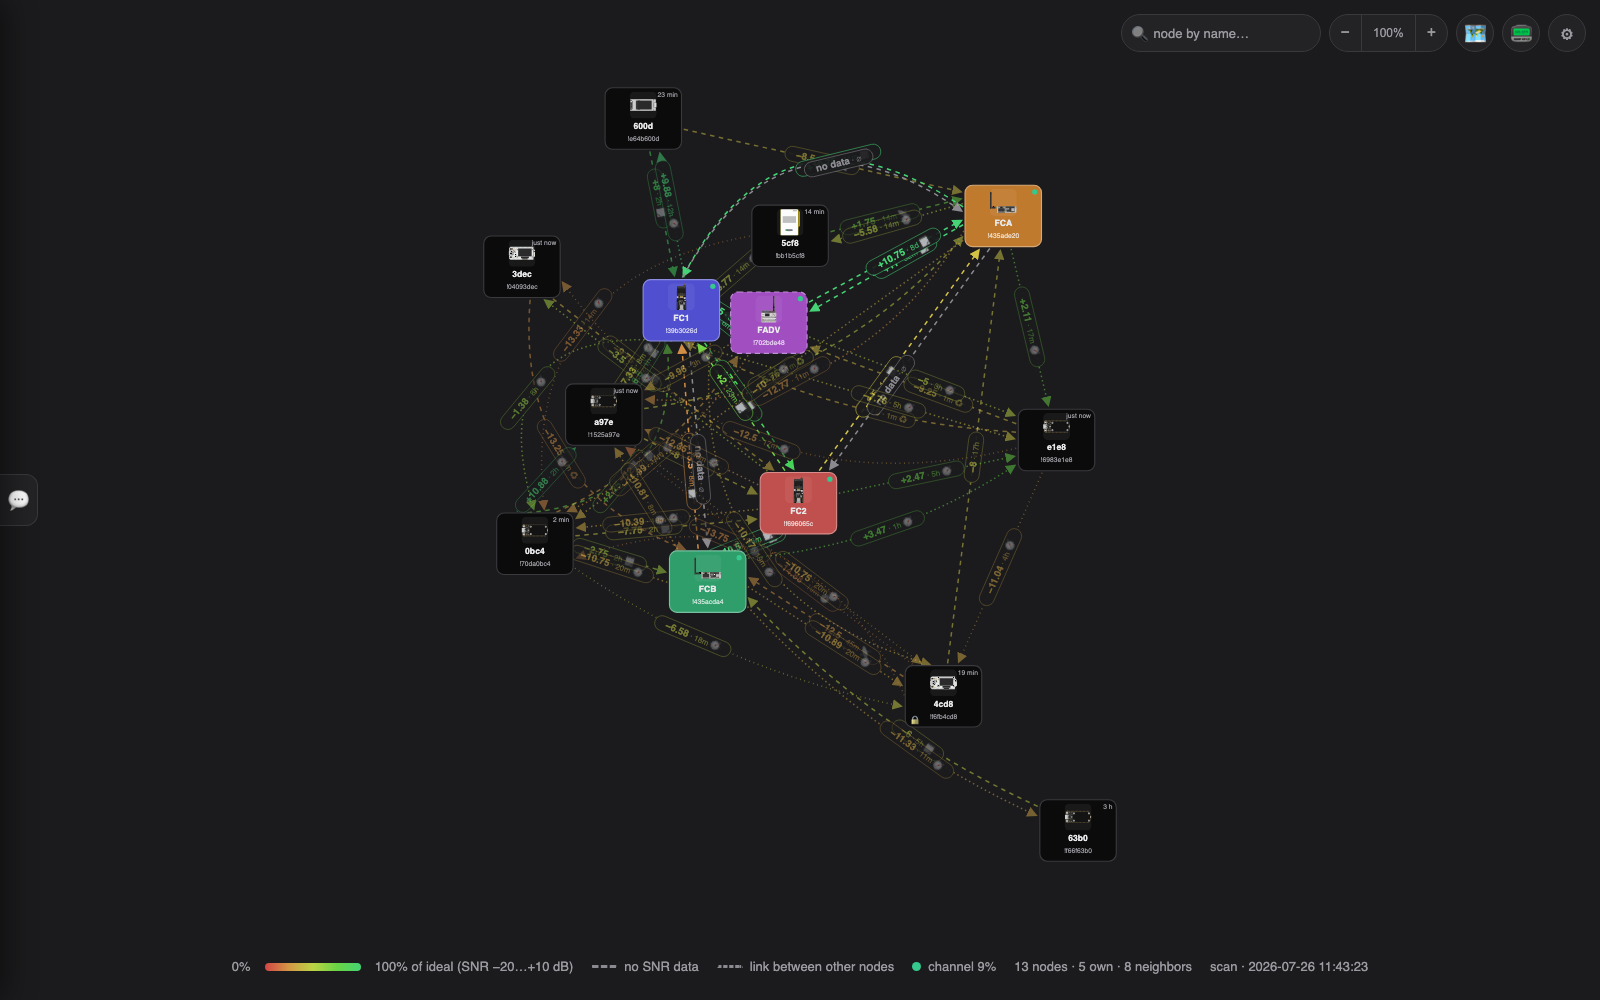
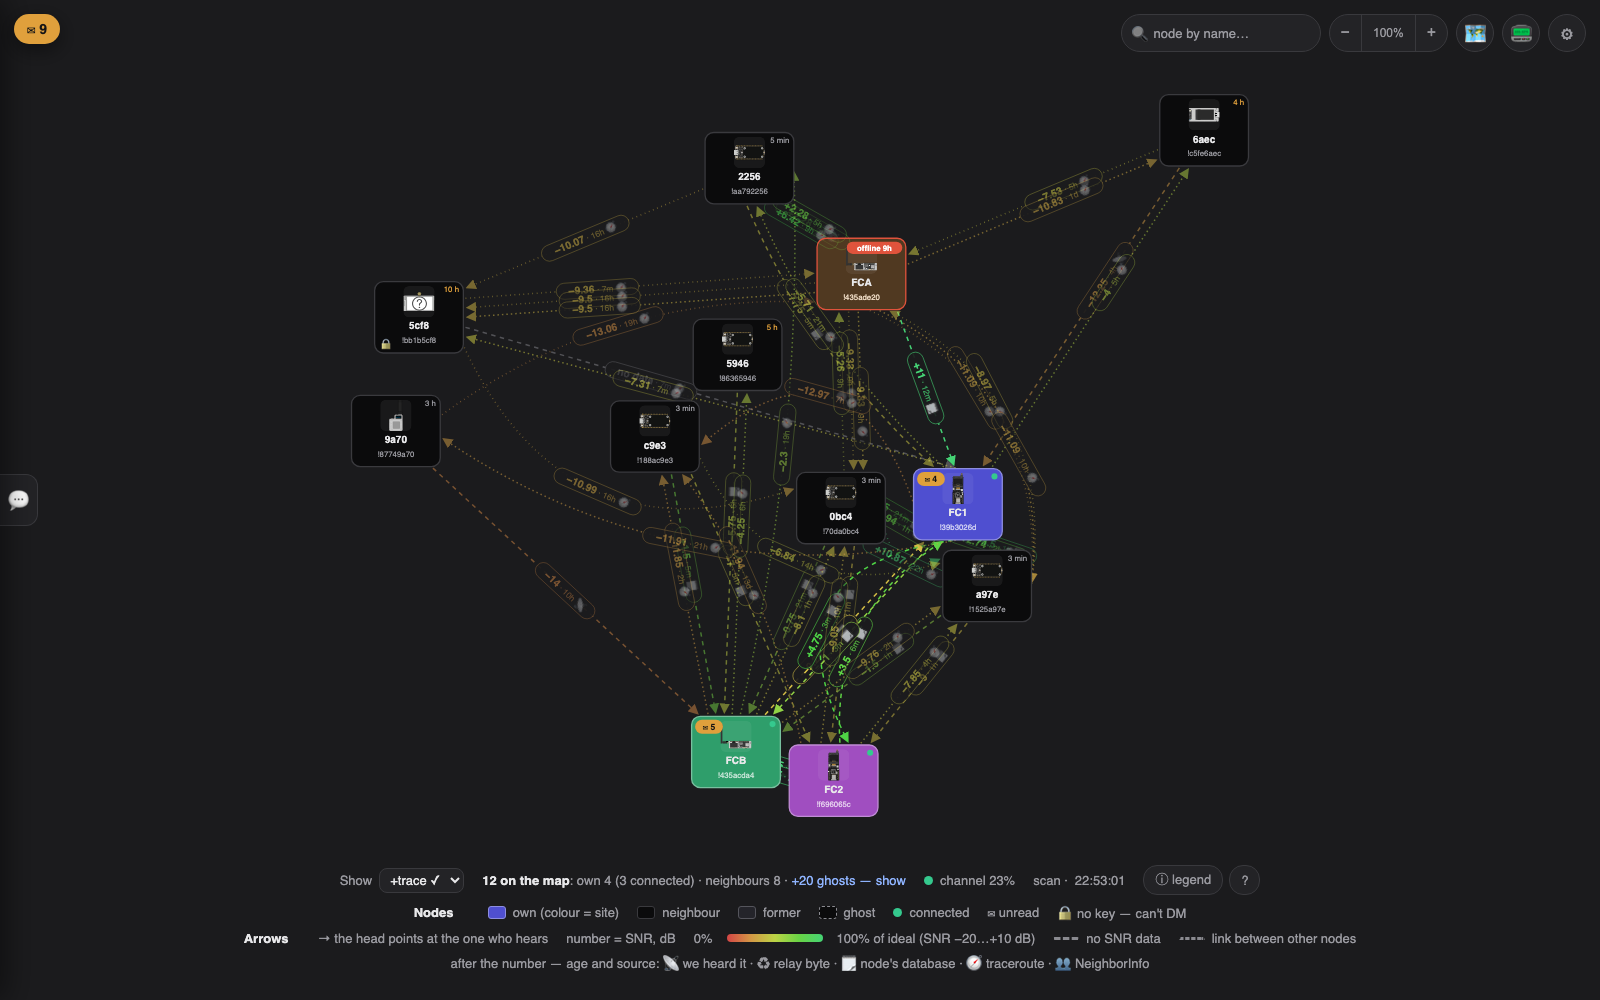
Карта не залезает под верхний ряд, легенда ровная; новые кадры в README
- Облако нод опускается под верхний ряд кнопок (он лежит поверх карты):
  с крупными карточками верхняя уходила под поиск.
- Строки легенды центрируются одинаково, перенос «Стрелок» больше не
  уезжает влево.
- Статус: «off» у пропавшей ноды → «нет связи»; «1 обсуждений» →
  «обсуждений: 1».
- Кадры карты, поиска и статуса пересняты (анон-режим, IP своих нод
  скрыты): на них новая легенда, крупные карточки, пропавшая своя нода и
  раздел «Свои ноды» на статусе.

diff --git a/app.js b/app.js
@@ -828,11 +828,14 @@
       const xs = P.map(p => p[0]), ys = P.map(p => p[1]);
       const spanX = (Math.max(...xs) - Math.min(...xs)) || 1e-6;
       const spanY = (Math.max(...ys) - Math.min(...ys)) || 1e-6;
-      const scale = Math.min((W - 180) / spanX, (H - 200) / spanY) * mapZoom;
+      // верхний ряд кнопок лежит поверх карты (до 52 px) — облако опускаем под
+      // него; при зуме карта скроллится, и отступ не нужен
+      const topU = mapZoom > 1.001 ? 0 : 56 / pxPerU;
+      const scale = Math.min((W - 180) / spanX, (H - 200 - topU) / spanY) * mapZoom;
       const cx0 = (Math.max(...xs) + Math.min(...xs)) / 2;
       const cy0 = (Math.max(...ys) + Math.min(...ys)) / 2;
       ids.forEach((id, i) => {
-        px[id] = [CW / 2 + (P[i][0] - cx0) * scale, CH / 2 + (P[i][1] - cy0) * scale];
+        px[id] = [CW / 2 + (P[i][0] - cx0) * scale, CH / 2 + topU / 2 + (P[i][1] - cy0) * scale];
       });
       // Раздвижка перекрывшихся карточек (2D, симметрично). Со-локация своих
       // нод (одно железо → почти совпадающие точки в честной SNR-раскладке) плюс
@@ -841,7 +844,7 @@
       // мягко держим в границах — кластер у края расползается внутрь карты.
       const MINX = CARD.w * cardK + 12, MINY = CARD.h * cardK + 14;
       const clX = (v) => Math.max(CARD.w * cardK / 2 + 19, Math.min(CW - CARD.w * cardK / 2 - 19, v));
-      const clY = (v) => Math.max(CARD.h * cardK / 2 + 7, Math.min(CH - CARD.h * cardK / 2 - 7, v));
+      const clY = (v) => Math.max(CARD.h * cardK / 2 + 7 + topU, Math.min(CH - CARD.h * cardK / 2 - 7, v));
       // Пары дальше MINX×MINY не пересекаются, поэтому вместо O(n²) на итерацию
       // бакетим позиции по сетке ячейками MINX×MINY: узел сравниваем лишь с его и
       // 8 соседними ячейками (только там возможно перекрытие). При сотнях узлов

diff --git a/style.css b/style.css
@@ -59,10 +59,10 @@ body.geo-on #mapzoom { display: none; }
   padding-bottom: max(26px, env(safe-area-inset-bottom));
   font-size: 13px;
   color: var(--muted);
-  align-items: center;
+  align-items: stretch;
 }
 #legend .item { display: flex; align-items: center; gap: 7px; }
-#legend .lg-row { display: flex; flex-wrap: wrap; align-items: center; gap: 6px 18px; }
+#legend .lg-row { display: flex; flex-wrap: wrap; align-items: center; justify-content: center; gap: 6px 18px; }
 #legend .lg-key { display: none; }
 body.legend-open #legend .lg-key { display: flex; }
 #legend .lg-h { color: var(--text); font-weight: 600; min-width: 56px; }
@@ -76,7 +76,7 @@ body.legend-open #legend .lg-key { display: flex; }
   background: var(--zone-bg); color: var(--text); border: 1px solid var(--zone-stroke);
   border-radius: 8px; padding: 3px 6px; font: inherit; cursor: pointer;
 }
-#legend .lg-btns { margin-left: auto; display: flex; gap: 6px; }
+#legend .lg-btns { display: flex; gap: 6px; }
 #legend .lg-btns button {
   background: var(--zone-bg); color: var(--muted); border: 1px solid var(--zone-stroke);
   border-radius: 14px; padding: 4px 11px; font: inherit; cursor: pointer;

diff --git a/status.html b/status.html
@@ -166,7 +166,7 @@
         return `<div class="card nrow"><span class="dot ${dot}"></span>
           <span><span class="nm">${esc(n.name)}</span> <span class="meta">${esc(n.ip || "")}</span><br>
           <span class="meta">${parts.join(" · ") || "на связи"}</span></span>
-          <span class="age">${n.connected ? "" : n.mobile ? "кочует" : "off"}</span></div>`;
+          <span class="age">${n.connected ? "" : n.mobile ? "кочует" : "нет связи"}</span></div>`;
       }).join("") || '<div class="meta">флот не описан: добавь свои ноды в known/names конфига</div>';
 
       // данные

diff --git a/collector/hub.py b/collector/hub.py
@@ -3448,7 +3448,7 @@ def gh_watch_loop():
             for n in notes:
                 log("🐙 " + n.splitlines()[0])
                 tg_send(n)
-            beat("ghwatch", f"{len(entries)} обсуждений"
+            beat("ghwatch", f"обсуждений: {len(entries)}"
                             + (f" · новых {len(notes)}" if notes else ""))
         except Exception as e:
             beat("ghwatch", f"ошибка: {e.__class__.__name__}")

diff --git a/README.ru.md b/README.ru.md
@@ -6,7 +6,7 @@
 и насколько хорошо, у кого лежит непрочитанное сообщение. Всё обновляется
 само, пока страница открыта.
 
-![Карта связности: свои ноды окрашены по площадкам, соседи подтверждены трассировкой, на каждой стрелке — SNR, возраст замера и значок источника.](docs/screenshot.png)
+![Карта связности: свои ноды окрашены по площадкам (пропавшая — приглушена, с плашкой «нет связи»), соседи подтверждены трассировкой, на каждой стрелке — SNR, возраст замера и значок источника; внизу — уровень показа, счётчики и ключ к карточкам и стрелкам.](docs/screenshot.png)
 
 *(Кадры в доке сняты во встроенном анон-режиме: имена соседей заменены
 хвостом их id, IP своих нод скрыты.)*
@@ -300,7 +300,7 @@ Telegram то, что требует внимания, и только его:
 предсжатие, чистка, трассировка (фоновая и своя↔своя), добор ключей,
 геокодинг.
 
-![Страница статуса: загрузка канала и суточный профиль каждого воркера.](docs/status.png)
+![Страница статуса: свои ноды (кто на связи, кто пропал), загрузка канала и суточный профиль каждого воркера.](docs/status.png)
 
 ## Гео-карта 🗺
 

diff --git a/README.md b/README.md
@@ -6,7 +6,7 @@ A live map of your Meshtastic node zoo: who is on the air, who hears
 whom and how well, and which node has unread mail. Everything updates
 by itself while the page is open.
 
-![The connectivity map: own nodes tinted by site, neighbours confirmed by traceroute, every arrow labeled with SNR, measurement age and a source icon.](docs/screenshot.png)
+![The connectivity map: own nodes tinted by site (a lost one dimmed, with an "offline" badge), neighbours confirmed by traceroute, every arrow labeled with SNR, measurement age and a source icon; at the bottom — the Show level, the counters and the key to cards and arrows.](docs/screenshot.png)
 
 *(All doc shots are taken in the built-in anonymize mode: neighbours'
 names are replaced with their id tails, own nodes' IPs are hidden.)*
@@ -315,7 +315,7 @@ and a daily sparkline of its metric: connections, poll→cache,
 cache→map, tiers and precompression, pruning, tracing (background and
 own↔own), key collection, geocoding.
 
-![The status page: channel load and a 24-hour profile of every worker.](docs/status.png)
+![The status page: your own nodes (who is connected, who is gone), channel load and a 24-hour profile of every worker.](docs/status.png)
 
 ## The geo map 🗺
 
